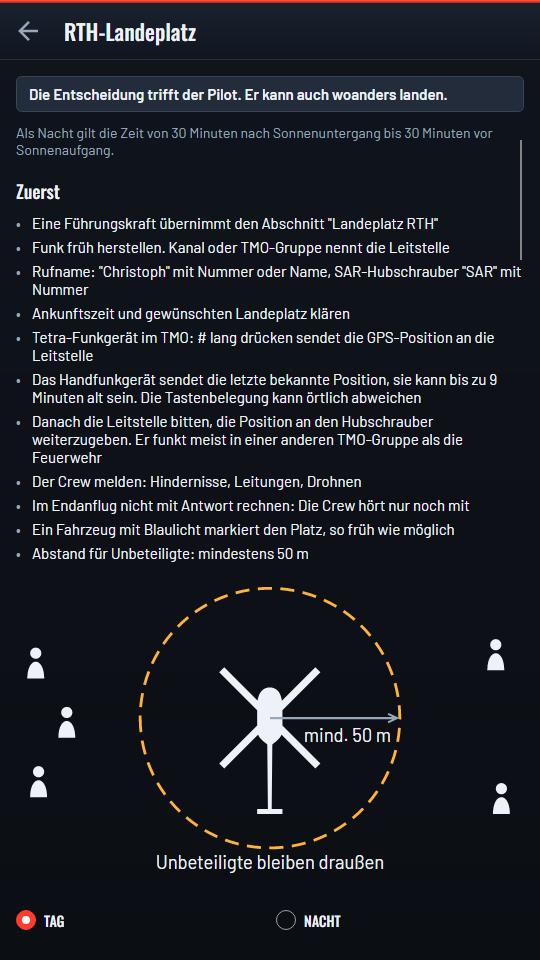
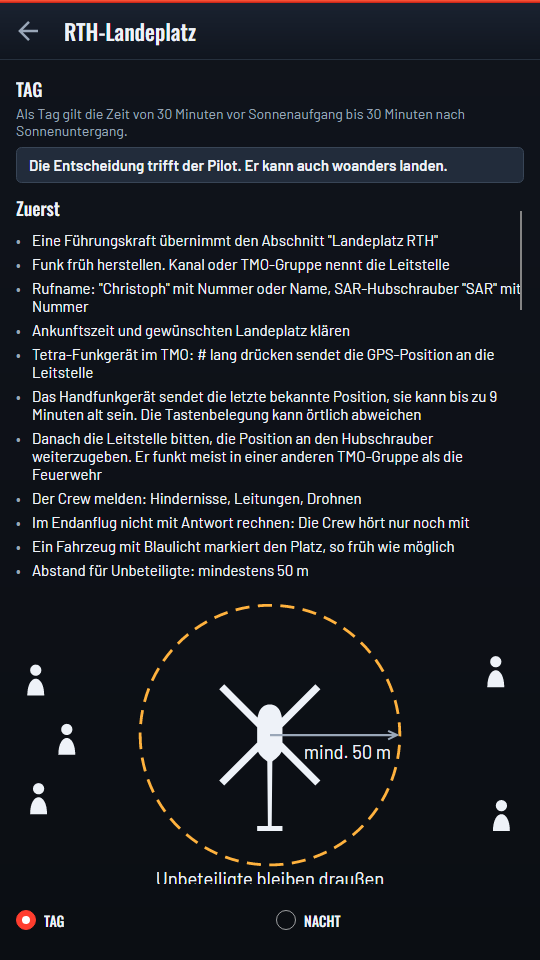
fix(rth-landeplatz): show TAG or NACHT at the top with its timeframe (#46)
The mode was only visible on the switch at the bottom of the page. A pinned
heading now names it, with the matching timeframe directly underneath, so
both stay visible while the steps scroll.

Closes #44

diff --git a/tests/FwAssist.Acceptance.Tests/DemoFlowRenderTests.cs b/tests/FwAssist.Acceptance.Tests/DemoFlowRenderTests.cs
@@ -311,6 +311,8 @@ public class DemoFlowRenderTests
         phone.Shell.Open(RthLandeplatzModule.HelperId);
         PhoneRender.Settle();
 
+        Assert.Equal("TAG", ((TextBlock)Named(phone, "ModeHeading")).Text);
+        Assert.Equal(Landeplatzvorgaben.DayDefinition, ((TextBlock)Named(phone, "ModeDefinition")).Text);
         Assert.Contains(Landeplatzvorgaben.PilotDecides, VisibleTexts(phone.Window));
         Assert.DoesNotContain(Landeplatzvorgaben.AbortRule, VisibleTexts(phone.Window));
         Assert.Contains("Fläche: 30 m x 30 m oder größer", VisibleTexts(phone.Window));
@@ -321,6 +323,8 @@ public class DemoFlowRenderTests
         ((RadioButton)Named(phone, "NachtMode")).IsChecked = true;
         PhoneRender.Settle();
 
+        Assert.Equal("NACHT", ((TextBlock)Named(phone, "ModeHeading")).Text);
+        Assert.Equal(Landeplatzvorgaben.NightDefinition, ((TextBlock)Named(phone, "ModeDefinition")).Text);
         Assert.Contains(Landeplatzvorgaben.PilotDecides, VisibleTexts(phone.Window));
         Assert.Contains(Landeplatzvorgaben.AbortRule, VisibleTexts(phone.Window));
         Assert.Contains("Fläche: 35 m x 70 m oder größer", VisibleTexts(phone.Window));
@@ -330,7 +334,7 @@ public class DemoFlowRenderTests
     }
 
     [AvaloniaFact]
-    public void The_pilot_line_and_the_abort_rule_stay_outside_the_scrolling_steps()
+    public void The_mode_its_timeframe_the_pilot_line_and_the_abort_rule_stay_outside_the_scrolling_steps()
     {
         var phone = new PhoneRender();
         phone.Shell.Open(RthLandeplatzModule.HelperId);
@@ -338,6 +342,8 @@ public class DemoFlowRenderTests
 
         var scroller = Named(phone, "Sections").GetVisualAncestors().OfType<ScrollViewer>().First();
 
+        Assert.False(scroller.IsVisualAncestorOf(Named(phone, "ModeHeading")));
+        Assert.False(scroller.IsVisualAncestorOf(Named(phone, "ModeDefinition")));
         Assert.False(scroller.IsVisualAncestorOf(Named(phone, "PilotDecides")));
         Assert.False(scroller.IsVisualAncestorOf(Named(phone, "AbortRule")));
     }

diff --git a/src/Helpers/RthLandeplatz/FwAssist.Helpers.RthLandeplatz/RthLandeplatzViewModel.cs b/src/Helpers/RthLandeplatz/FwAssist.Helpers.RthLandeplatz/RthLandeplatzViewModel.cs
@@ -25,6 +25,8 @@ public sealed partial class RthLandeplatzViewModel : ObservableObject
     [ObservableProperty]
     [NotifyPropertyChangedFor(nameof(IsTag))]
     [NotifyPropertyChangedFor(nameof(Sections))]
+    [NotifyPropertyChangedFor(nameof(ModeHeading))]
+    [NotifyPropertyChangedFor(nameof(ModeDefinition))]
     private bool _isNacht;
 
     public bool IsTag
@@ -35,6 +37,10 @@ public sealed partial class RthLandeplatzViewModel : ObservableObject
 
     /// <summary>Only this mode's values: a night size can never be read as a day size.</summary>
     public IReadOnlyList<Section> Sections => IsNacht ? Landeplatzvorgaben.Nacht : Landeplatzvorgaben.Tag;
+
+    public string ModeHeading => IsNacht ? "NACHT" : "TAG";
+
+    public string ModeDefinition => IsNacht ? Landeplatzvorgaben.NightDefinition : Landeplatzvorgaben.DayDefinition;
 
     partial void OnIsNachtChanged(bool value) =>
         _settings.Set(NachtKey, value.ToString(CultureInfo.InvariantCulture));

diff --git a/tests/FwAssist.Helpers.RthLandeplatz.Tests/RthLandeplatzViewModelTests.cs b/tests/FwAssist.Helpers.RthLandeplatz.Tests/RthLandeplatzViewModelTests.cs
@@ -78,5 +78,25 @@ public class RthLandeplatzViewModelTests
         Assert.Contains(nameof(vm.IsNacht), changed);
         Assert.Contains(nameof(vm.IsTag), changed);
         Assert.Contains(nameof(vm.Sections), changed);
+        Assert.Contains(nameof(vm.ModeHeading), changed);
+        Assert.Contains(nameof(vm.ModeDefinition), changed);
+    }
+
+    [Fact]
+    public void By_day_the_heading_and_the_timeframe_name_the_day()
+    {
+        var vm = new RthLandeplatzViewModel(_settings);
+
+        Assert.Equal("TAG", vm.ModeHeading);
+        Assert.Equal(Landeplatzvorgaben.DayDefinition, vm.ModeDefinition);
+    }
+
+    [Fact]
+    public void By_night_the_heading_and_the_timeframe_name_the_night()
+    {
+        var vm = new RthLandeplatzViewModel(_settings) { IsNacht = true };
+
+        Assert.Equal("NACHT", vm.ModeHeading);
+        Assert.Equal(Landeplatzvorgaben.NightDefinition, vm.ModeDefinition);
     }
 }

diff --git a/tests/FwAssist.Helpers.RthLandeplatz.Tests/LandeplatzvorgabenTests.cs b/tests/FwAssist.Helpers.RthLandeplatz.Tests/LandeplatzvorgabenTests.cs
@@ -140,4 +140,18 @@ public class LandeplatzvorgabenTests
     [Fact]
     public void The_abort_rule_says_to_turn_the_light_off() =>
         Assert.EndsWith("Licht am Landeplatz aus!", Landeplatzvorgaben.AbortRule, StringComparison.Ordinal);
+
+    [Fact]
+    public void The_night_runs_from_after_sunset_to_before_sunrise() =>
+        Assert.Contains(
+            "30 Minuten nach Sonnenuntergang bis 30 Minuten vor Sonnenaufgang",
+            Landeplatzvorgaben.NightDefinition,
+            StringComparison.Ordinal);
+
+    [Fact]
+    public void The_day_runs_from_before_sunrise_to_after_sunset() =>
+        Assert.Contains(
+            "30 Minuten vor Sonnenaufgang bis 30 Minuten nach Sonnenuntergang",
+            Landeplatzvorgaben.DayDefinition,
+            StringComparison.Ordinal);
 }

diff --git a/src/Helpers/RthLandeplatz/FwAssist.Helpers.RthLandeplatz/Landeplatzvorgaben.cs b/src/Helpers/RthLandeplatz/FwAssist.Helpers.RthLandeplatz/Landeplatzvorgaben.cs
@@ -28,6 +28,10 @@ public static class Landeplatzvorgaben
     public const string NightDefinition =
         "Als Nacht gilt die Zeit von 30 Minuten nach Sonnenuntergang bis 30 Minuten vor Sonnenaufgang.";
 
+    // The complement of Folie 8's night, confirmed in #44.
+    public const string DayDefinition =
+        "Als Tag gilt die Zeit von 30 Minuten vor Sonnenaufgang bis 30 Minuten nach Sonnenuntergang.";
+
     public const string SourceNote =
         "Zusammengestellt aus diesen Unterlagen. Keine dieser Stellen hat diese App geprüft oder herausgegeben.";
 

diff --git a/changelog.d/+rth-landeplatz-mode-heading.fixed.md b/changelog.d/+rth-landeplatz-mode-heading.fixed.md
@@ -1,0 +1,1 @@
+RTH-Landeplatz now shows TAG or NACHT with its timeframe at the top of the page, and both stay visible while scrolling (#44).
